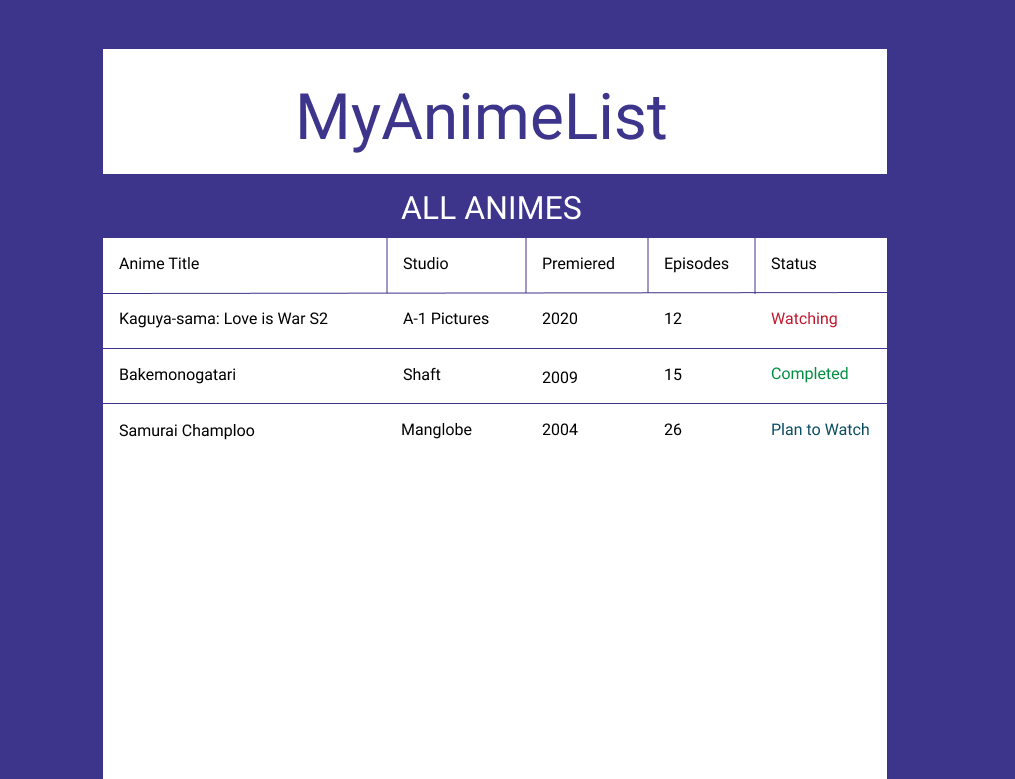
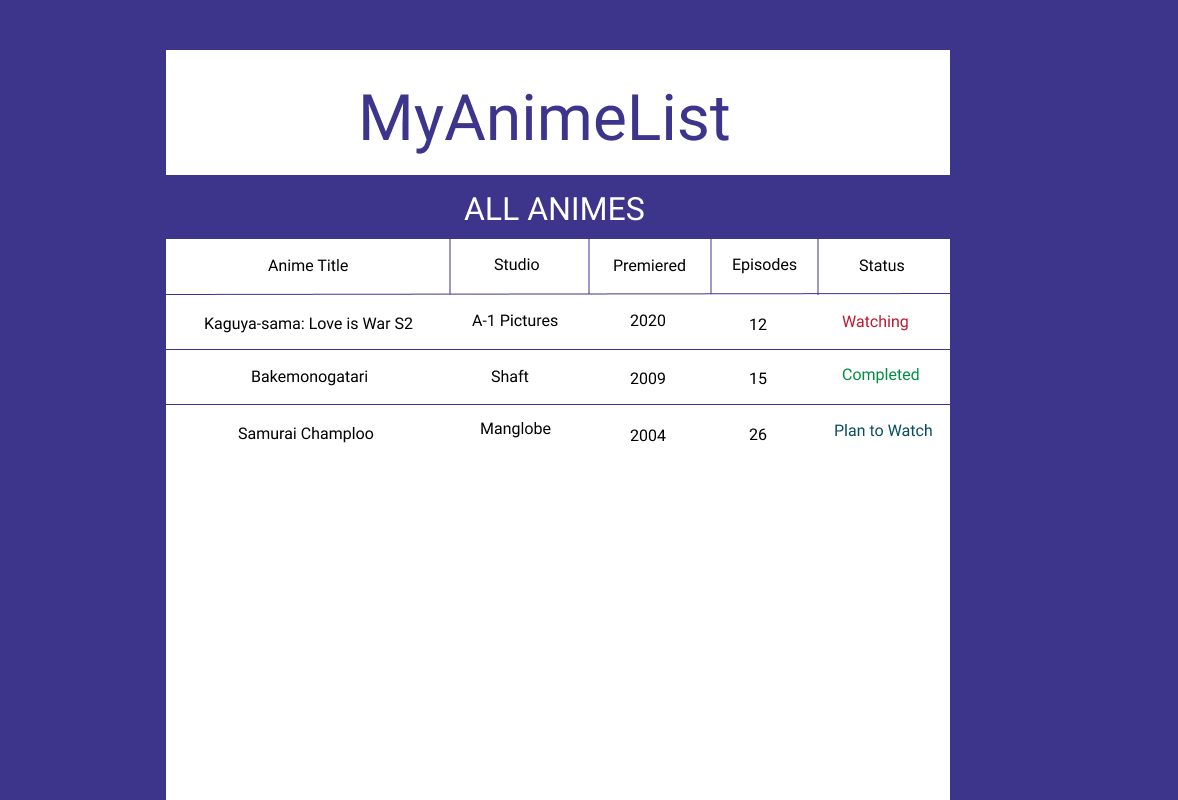
prototype project correct - content in table cells should be centered

Changed region(s): [[0.0916, 0.0616, 0.8857, 1.0]]

diff --git a/src/main/resources/templates/anime.html b/src/main/resources/templates/anime.html
@@ -11,7 +11,10 @@
     <main class="main">
         <h1 class="title">MyAnimeList</h1>
         <table class="anime-table">
-            <caption class="anime-table__caption">ALL ANIMES</caption>
+            <caption class="anime-table__caption">
+                <p class="caption__text">
+                ALL ANIMES</p>
+            </caption>
             <thead class="anime-table__thead">
                 <tr class="anime-table__header">
                     <th class="header__item">Anime Title</th>

diff --git a/src/main/resources/static/css/style.css b/src/main/resources/static/css/style.css
@@ -12,6 +12,7 @@ body {
     justify-content: center;
     min-height: 100vh;
     background-color: #3D348B;
+    font-family: 'Roboto', sans-serif;
 }
 
 .main {
@@ -23,9 +24,19 @@ body {
 }
 
 .title {
-    font-family: 'Roboto', sans-serif;
     font-size: 64px;
     color: #3D348B;
+}
+
+.anime-table__caption {
+    background-color: #3D348B;
+    max-height: 64px;
+}
+
+.caption__text {
+    margin: 16px 0;
+    font-size: 32px;
+    color: #fff;
 }
 
 
